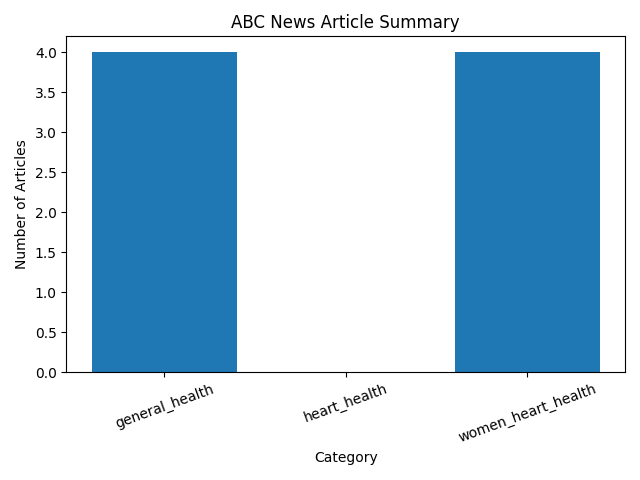
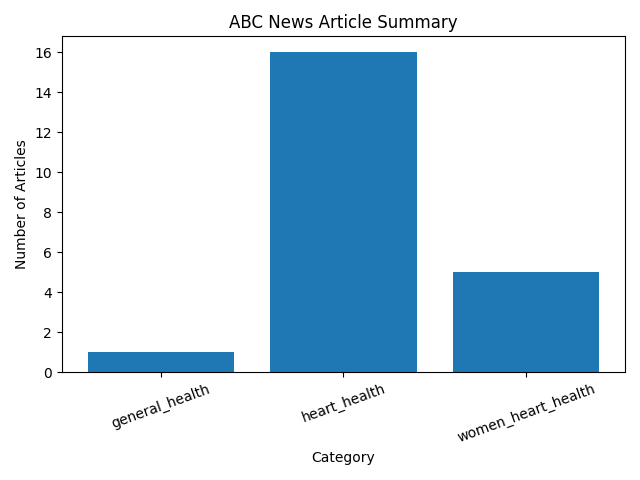
fixed inconsistent variable naming

diff --git a/scripts/common.py b/scripts/common.py
@@ -251,7 +251,7 @@ def classify_topic(title: str, content: str) -> str:
     if has_women and has_heart:
         return "women_heart_health"
     if has_heart:
-        return "general_heart_health"
+        return "heart_health"
     return "general_health"
 
 
